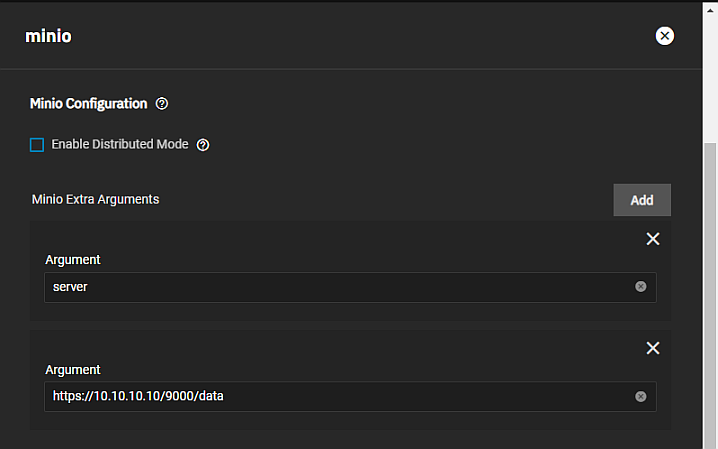
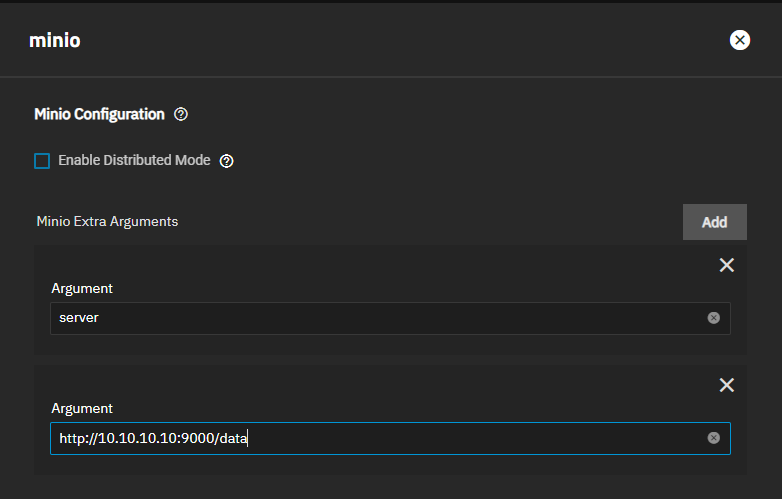
PD-888 Fix MinIO Cluster and Add Upgrading w Deployed Apps
This PR updates the MinIOClustering.md article screenshot and instructions with the correct argument path syntax.
It add the upgrading with deployed apps information to the UpdateSCALE.md article.

diff --git a/content/SCALETutorials/SystemSettings/UpdateSCALE.md b/content/SCALETutorials/SystemSettings/UpdateSCALE.md
@@ -68,4 +68,90 @@ To update the pools, enter <code>zpool upgrade <i>poolname</i></code>, where *po
 Upgrading pools is a one-way operation. After upgrading pools to the latest zfs features, you might not be able to boot into older versions of TrueNAS.
 {{< /hint >}}
 
+## Upgrading when Apps are Deployed
+If upgrading from Bluefin to Cobia when applications are deployed, the upgrade is a one-way operation.
+
+You cannot return to or roll back to an earlier SCALE release by simply activating an earlier release boot environment.
+You also cannot easily roll back app on-disk data after updating the structure to Cobia. 
+After upgrading to Cobia, deployed apps do not work in the earlier release boot environment because the path to ***system dataset*/ix-applications/docker** does not exist in Cobia and is removed from the earlier release as a result of the upgrade. 
+
+To rollback to an earlier SCALE release and bring your applications back online, before you upgrade to Cobia you must have snapshots of all datasets apps use, then create and run replication tasks to back up those snapshots. 
+After upgrading you use these backed up snapshots and replication tasks to restore the early release to a state where you can get apps running again. 
+
+You need pre-upgrade snapshots of the **ix-applications** dataset and a recursive snapshot of **ix-applications** to get the **docker** dataset, and then snapshots of all datasets apps use as host paths.
+Without these snapshots, to downgrade to Bluefin requires deleting the app(s) and redeploying it/them. 
+
+Replication tasks should copy the snapshots to a remote server used for backups of your data. 
+If you do not have a remote server to store backed up snapshots, you can create a new pool and dataset on the system but this is not recommended or best practices.
+
+When you rollback the local server, copy the snapshots from the remote server to the local server but do not save the snapshots in the **ix-applications** dataset. Create a new dataset on the same pool as the **ix-applications** dataset (the pool apps use).
+
+### Before Upgrading
+
+1. Verify your Bluefin apps are running (not stopped or in the deploying state), and that you have access to your data and the application web portals. 
+
+2. Create and run a replication tasks to a remote server. 
+   See [Setting Up a Remote Replication Task](https://www.truenas.com/docs/scale/scaletutorials/dataprotection/replication/remotereplicationscale/) for more information. 
+   Before upgrading to Cobia create and run replicated snapshots for:
+
+   * The **ix-applications** dataset to restore the migration json files to the earlier version.
+   * A recursive replication of the **ix-applications** dataset to see the docker snapshot.
+   * Snapshots of any datasets apps use for storage, such as the MinIO app **data** dataset.
+
+   If a Bluefin apps uses host path(s) to existing datasets, such as with the MinIO and the **/data** dataset, create and run remote replication tasks for these datasets. 
+   If you nested these datasets for apps under a parent dataset, set up a recursive remote replication of the parent dataset to create the snapshots of all the nested child datasets the apps use.
+
+3. Upgrade to Cobia and save the configuration file. This is always recommended so you can restore your system configuration if necessary.
+
+### Rolling Back to SCALE Bluefin
+Do not replicate the snapshot back to the **ix-applications** dataset! 
+Create a dataset or use an existing dataset on the same pool as the **ix-applications** dataset to hold these snapshots. 
+
+1. Select the earlier release boot environment, make it the active boot environment, then reboot the system. 
+   See [Managing Boot Environments](https://www.truenas.com/docs/scale/scaletutorials/systemsettings/managebootenvironscale/) for more information.
+
+2. Go to the remote system and create and run a replication task to copy the snapshots back to the system you rolled back to an earlier SCALE release. 
+   Alternatively, you can create a **Pull** replication task on the rolled-back system to bring the snapshots from the remote system to the local system. 
+
+   Replicate each snapshot: the **ix-applications**, **ix-applications/docker**, and all snapshots of datasets set up as host paths in an application.
+   
+   If moving a snapshot from a different pool on the same server, replicate to a dataset on the same pool as the **ix-applications** dataset (for example, *tank/repsnaps* if **ix-applications** is in the *tank* pool). 
+ 
+3. Go to the location of the snapshots, then:
+   
+   a. Roll back to the **ix-applications** snapshot taken before the upgrade. This updates the migration json files to the pre-upgrade version of the files.
+
+   b. Locate the **ix-applications/docker** snapshot, click on it to expand it, then click **Clone to Dataset**. 
+      Rename the dataset to ***poolname*/ix-applications/docker** to create the missing **docker** dataset from this snapshot.
+
+   c. Roll back the snapshots for any dataset used as a host path in an application to the snapshots taken before the upgrade.
+
+4. Go to **Shell** or open an SSH session and verify the docker dataset exists. Enter:
+
+   <code>
+   cd /mnt/<i>poolname</i>/ix-applications
+
+   ls
+   </code>
+
+   Where *poolname* is the name of the pool assigned as the pool for applications to use and with the **ix-applications** dataset.
+
+   The command output should now show the docker dataset.
+
+5. Reboot the system.
+
+The applications should now show on the **Applications > Installed Applications** screen. It takes a while for apps to return to the **Active** state.
+
+After doing the above, if the applications do not show on the **Installed Applications** screen, either open an SSH session or go to **Shell** and run the command to remove the app_migrations.json and migrations.json files. Enter at the prompt:
+
+`sudo rm -rf app_migrations.json`
+
+When prompted, enter the admin password. 
+Repeat the command for the migrations.json file.
+
+{{< trueimage src="/images/SCALE/23.10/CLICommandToRemoveMigrateJsonFiles.png" alt="Removing the Json Migration Files" id="Removing the Json Migration Files" >}}
+
+Reboot the system, then return to the **Applications > Installed Applications** screen. The applications should show. 
+Wait for the apps to return to the **Active** state, then check the web portal for your apps.
+
 {{< taglist tag="scaleupdate" limit="10" >}}

diff --git a/content/SCALETutorials/Apps/CommunityApps/MinIOClustersSCALE/MinIOClustering.md b/content/SCALETutorials/Apps/CommunityApps/MinIOClustersSCALE/MinIOClustering.md
@@ -80,7 +80,7 @@ Click **Add** to the right of **Container Args** twice to add two **Arg** fields
 
 In the first **Arg** field, type **server**. 
 In the second **Arg** field, type the valid IP or host name of each TrueNAS system on the network, the MinIO port number, and the directory you created for MinIO. 
-Use this format: <file>**http://*0.0.0.0*/9000/data**</file>.
+Use this format: <file>**http://*0.0.0.0*:9000/data**</file>.
 
 To create a distributed cluster, add all the valid TrueNAS system (node) IP addresses/host names. Use the same order across all the nodes.
 
